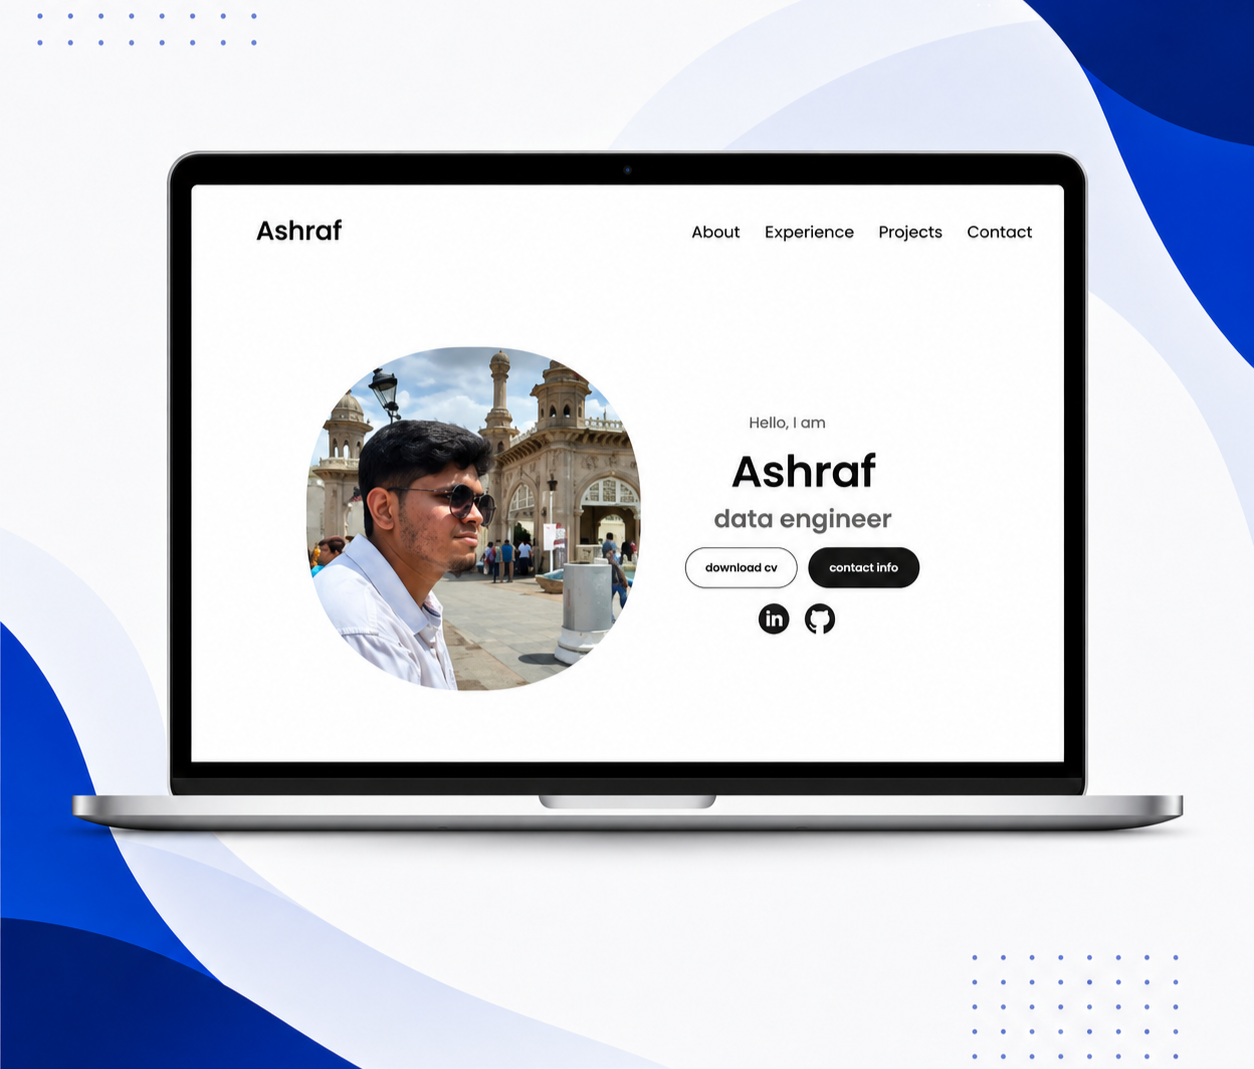
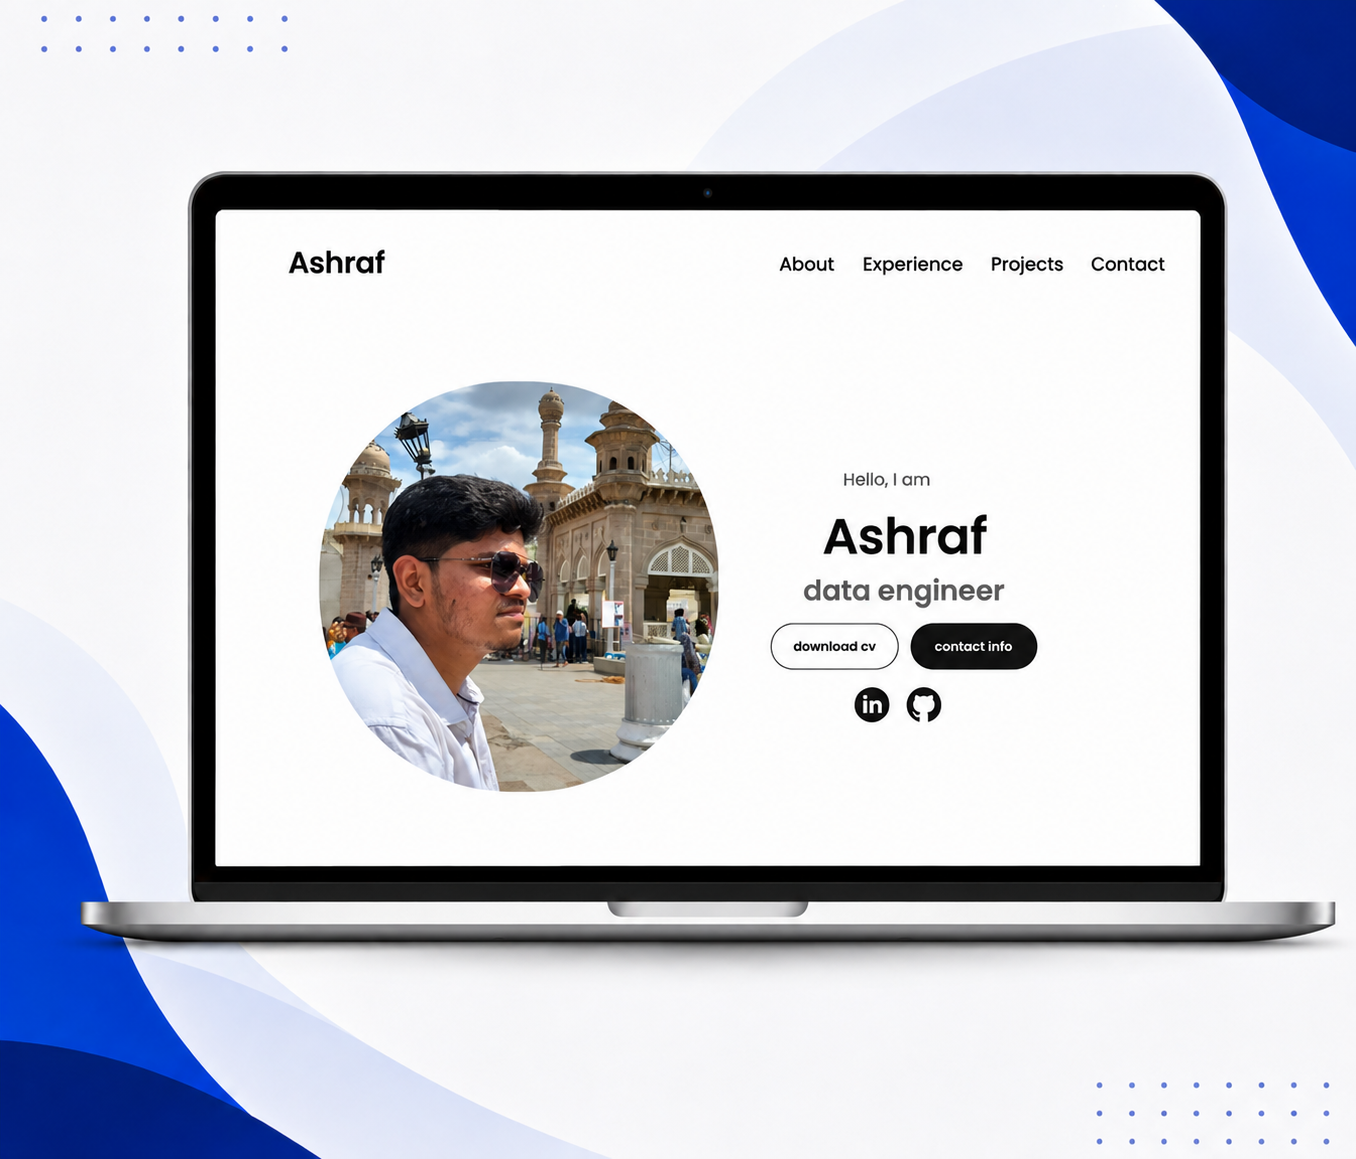
resized the images in project section

diff --git a/index.html b/index.html
@@ -104,94 +104,94 @@
         <div class="experience-details-container">
             <div class="about-containers">
                 <div class="details-container">
-                    <h2 class="experience-sub-title">Frontend Development</h2>
+                    <h2 class="experience-sub-title">Data Engineering</h2>
                     <div class="article-container">
                         <article>
                             <img src="./Assets//checkmark.png" alt="Experience icon" class="icon"/>
                             <div>
-                                <h3>HTML</h3>
+                                <h3>Snowflake</h3>
                                 <p>Experienced</p>
                             </div>
                         </article>
                         <article>
                             <img src="./Assets/checkmark.png" alt="Experience icon" class="icon"/>
                             <div>
-                                <h3>CSS</h3>
+                                <h3>DBT</h3>
                                 <p>Experienced</p>
                             </div>
                         </article>
                         <article>
                             <img src="./Assets/checkmark.png" alt="Experience icon" class="icon"/>
                             <div>
-                                <h3>SASS</h3>
+                                <h3>SQL</h3>
                                 <p>Intermediate</p>
                             </div>
                         </article>
                         <article>
                             <img src="./Assets/checkmark.png" alt="Experience icon" class="icon"/>
                             <div>
-                                <h3>Java Script</h3>
+                                <h3>Python</h3>
                                 <p>Basic</p>
                             </div>
                         </article>
                         <article>
                             <img src="./Assets/checkmark.png" alt="Experience icon" class="icon"/>
                             <div>
-                                <h3>Type script</h3>
+                                <h3>HTML</h3>
                                 <p>Basic</p>
                             </div>
                         </article>
                         <article>
                             <img src="./Assets//checkmark.png" alt="Experience icon" class="icon"/>
                             <div>
-                                <h3>Material UI</h3>
+                                <h3>CSS</h3>
                                 <p>Intermediate</p>
                             </div>
                         </article>
                     </div>
                 </div>
                 <div class="details-container">
-                    <h2 class="experience-sub-title">Frontend Development</h2>
+                    <h2 class="experience-sub-title">Tools</h2>
                     <div class="article-container">
                         <article>
                             <img src="./Assets/checkmark.png" alt="Experience icon" class="icon"/>
                             <div>
-                                <h3>PostGre SQL</h3>
+                                <h3>Github</h3>
                                 <p>Basic</p>
                             </div>
                         </article>
                         <article>
                             <img src="./Assets/checkmark.png" alt="Experience icon" class="icon"/>
                             <div>
-                                <h3>Node JS</h3>
+                                <h3>Snowflake</h3>
                                 <p>Intermediate</p>
                             </div>
                         </article>
                         <article>
                             <img src="./Assets/checkmark.png" alt="Experience icon" class="icon"/>
                             <div>
-                                <h3>Express JS</h3>
+                                <h3>VS code</h3>
                                 <p>Intermediate</p>
                             </div>
                         </article>
                         <article>
                             <img src="./Assets/checkmark.png" alt="Experience icon" class="icon"/>
                             <div>
-                                <h3>Git</h3>
+                                <h3>AWS</h3>
                                 <p>Intermediate</p>
                             </div>
                         </article>
                         <article>
                             <img src="./Assets/checkmark.png" alt="Experience icon" class="icon"/>
                             <div>
-                                <h3>TYPESCRIPT</h3>
+                                <h3>DBT tool</h3>
                                 <p>BASIC</p>
                             </div>
                         </article>
                      <article>
                             <img src="./Assets/checkmark.png" alt="Experience icon" class="icon"/>
                             <div>
-                                <h3>MATERIAL UI</h3>
+                                <h3></h3>
                                 <p>INTERMEDIATE</p>
                             </div>
                         </article>
@@ -213,7 +213,7 @@
             <h2 class="experience-sub-title project-title">My Portfolio</h2>
             <div class="btn-container">
                 <button class="btn btn-color-2 project-btn"
-                 onclick="location.href='https://github.com'">Github</button>
+                 onclick="location.href='https://github.com/ashrafhussainshaik/Ashraf-portfolio/tree/main'">Github</button>
                  <button class="btn btn-color-2 project-btn"
                  onclick="location.href='https://github.com'">Live demo</button>
             </div>

diff --git a/style.css b/style.css
@@ -354,8 +354,8 @@ section{
 
 article {
   display: flex;
+  align-items: center;
   width: 10rem;
-  justify-content: space-around;
   gap: 0.5rem;
 }
 
@@ -367,7 +367,7 @@ article .icon {
 /* PROJECTS */
 
 #projects {
-  position: relative;
+  position:relative;
 }
 
 .color-container {
@@ -378,7 +378,7 @@ article .icon {
 
 .project-img {
   border-radius: 2rem;
-  width: 90%;
+  width: 80%;
   height: 90%;
 }
 
